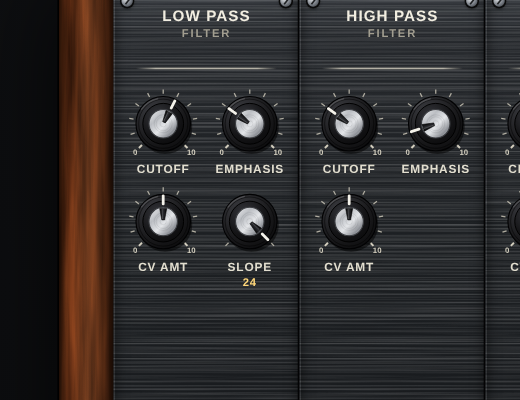
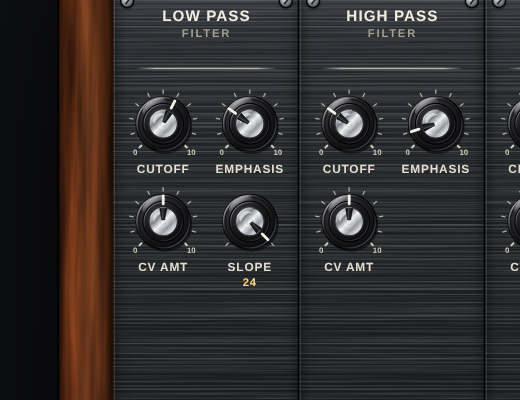
Knob: glossier bakelite, chrome aluminium, rim light (HTML + JUCE)
Claude-Session: https://claude.ai/code/session_01SzB2qFQArXhuppk4rEBZ5Y

diff --git a/ui/index.html b/ui/index.html
@@ -146,7 +146,9 @@ body.dragging #cables .hit,body.dragging #cables .plug{pointer-events:none}
     <radialGradient id="kSkirt" cx=".35" cy=".3" r=".9"><stop offset="0" stop-color="#3d3e43"/><stop offset=".6" stop-color="#18181a"/><stop offset="1" stop-color="#060607"/></radialGradient>
     <radialGradient id="kCap" cx=".38" cy=".3" r=".85"><stop offset="0" stop-color="#7d7e84"/><stop offset=".45" stop-color="#2b2b2e"/><stop offset="1" stop-color="#0a0a0b"/></radialGradient>
     <radialGradient id="kBody" cx=".36" cy=".3" r=".95"><stop offset="0" stop-color="#34353a"/><stop offset=".55" stop-color="#141416"/><stop offset="1" stop-color="#050506"/></radialGradient>
-    <linearGradient id="kAl" x1="0" y1="0" x2="1" y2="1"><stop offset="0" stop-color="#f4f5f6"/><stop offset=".3" stop-color="#b9bcc1"/><stop offset=".55" stop-color="#e3e5e8"/><stop offset=".8" stop-color="#8d9096"/><stop offset="1" stop-color="#c9ccd0"/></linearGradient>
+    <linearGradient id="kAl" x1="0" y1="0" x2="1" y2="1"><stop offset="0" stop-color="#ffffff"/><stop offset=".18" stop-color="#cfd2d7"/><stop offset=".34" stop-color="#7c7f86"/><stop offset=".5" stop-color="#f2f4f6"/><stop offset=".68" stop-color="#9a9da4"/><stop offset=".84" stop-color="#e6e8eb"/><stop offset="1" stop-color="#6e7077"/></linearGradient>
+    <linearGradient id="kGloss" x1="0" y1="0" x2="0" y2="1"><stop offset="0" stop-color="#fff" stop-opacity=".75"/><stop offset=".5" stop-color="#fff" stop-opacity=".12"/><stop offset="1" stop-color="#fff" stop-opacity="0"/></linearGradient>
+    <linearGradient id="kRim" x1="0" y1="0" x2="1" y2="1"><stop offset="0" stop-color="#fff" stop-opacity=".85"/><stop offset=".35" stop-color="#fff" stop-opacity=".05"/><stop offset=".65" stop-color="#fff" stop-opacity="0"/><stop offset="1" stop-color="#9fb4ff" stop-opacity=".45"/></linearGradient>
     <linearGradient id="kWedge" x1="0" y1="0" x2="1" y2="0"><stop offset="0" stop-color="#050506"/><stop offset=".5" stop-color="#2a2b2f"/><stop offset="1" stop-color="#050506"/></linearGradient>
     <linearGradient id="nut" x1="0" y1="0" x2="1" y2="1"><stop offset="0" stop-color="#f3f5f6"/><stop offset=".5" stop-color="#899096"/><stop offset="1" stop-color="#d6dadd"/></linearGradient>
     <radialGradient id="hole" cx=".5" cy=".5" r=".5"><stop offset="0" stop-color="#000"/><stop offset=".72" stop-color="#0a0a0a"/><stop offset="1" stop-color="#40444a"/></radialGradient>
@@ -323,9 +325,13 @@ function knobSVG(k){
     <circle cx="1.3" cy="2.2" r="19.5" fill="#000" opacity=".5"/>
     <circle r="19.5" fill="url(#kSkirt)" stroke="#020203" stroke-width=".8"/>
     <circle r="17.6" fill="none" stroke="#000" stroke-opacity=".55" stroke-width=".6"/>
-    <path d="M-15.5 -10.5 A18.7 18.7 0 0 1 -4 -18" fill="none" stroke="#fff" stroke-opacity=".16" stroke-width="1.1" stroke-linecap="round"/>
+    <circle r="18.9" fill="none" stroke="url(#kRim)" stroke-width="1.1"/>
+    <ellipse cx="-6.5" cy="-12.2" rx="9.5" ry="4.6" transform="rotate(-32 -6.5 -12.2)" fill="url(#kGloss)" opacity=".9"/>
     <circle r="14.6" fill="url(#kBody)" stroke="#000" stroke-width=".7"/>
-    <circle r="10.2" fill="url(#kAl)" stroke="#3b3d41" stroke-width=".8"/>${brush}
+    <circle r="13.7" fill="none" stroke="url(#kRim)" stroke-width=".7" opacity=".8"/>
+    <circle r="10.2" fill="url(#kAl)" stroke="#2c2e32" stroke-width=".9"/>${brush}
+    <path d="M-7.6 -2.2 A8 8 0 0 1 -1.6 -7.8 L1.8 -6.4 A9.6 9.6 0 0 0 -6.4 .4 Z" fill="#fff" opacity=".55"/>
+    <circle r="9.9" fill="none" stroke="#fff" stroke-opacity=".7" stroke-width=".5" stroke-dasharray="14 70" transform="rotate(200)"/>
     <g class="ptr">
       <line x1="0" y1="-12.6" x2="0" y2="-18.4" stroke="#f4f2ea" stroke-width="2" stroke-linecap="round"/>
       <path d="M-2.5 -9.4 L2.5 -9.4 L1 -1.2 L-1 -1.2 Z" fill="url(#kWedge)" stroke="#000" stroke-width=".4"/>

diff --git a/vst3/template/Source/PluginEditor.cpp b/vst3/template/Source/PluginEditor.cpp
@@ -42,17 +42,38 @@ void KnobLookAndFeel::drawRotarySlider (juce::Graphics& g, int x, int y, int w, 
     g.setGradientFill (juce::ColourGradient (juce::Colour (0xff34353a), c.x - 5 * u, c.y - 7 * u,
                                              juce::Colour (0xff050506), c.x + 14 * u, c.y + 14 * u, true));
     g.fillEllipse (disc (14.6f));                                              // upper body
+    {   // specular sheen on the bakelite and a bright rim light on the skirt edge
+        juce::Graphics::ScopedSaveState ss (g);
+        g.addTransform (juce::AffineTransform::rotation (juce::degreesToRadians (-32.0f), c.x - 6.5f * u, c.y - 12.2f * u));
+        g.setGradientFill (juce::ColourGradient (juce::Colours::white.withAlpha (0.65f), c.x - 6.5f * u, c.y - 15.0f * u,
+                                                 juce::Colours::white.withAlpha (0.0f), c.x - 6.5f * u, c.y - 9.0f * u, false));
+        g.fillEllipse (juce::Rectangle<float> (c.x - 16.0f * u, c.y - 16.8f * u, 19.0f * u, 9.2f * u));
+    }
+    g.setGradientFill (juce::ColourGradient (juce::Colours::white.withAlpha (0.8f), c.x - 13 * u, c.y - 13 * u,
+                                             juce::Colour (0x779fb4ff), c.x + 13 * u, c.y + 13 * u, false));
+    g.drawEllipse (disc (18.9f), 1.1f * u);
 
-    g.setGradientFill (juce::ColourGradient (juce::Colour (0xfff4f5f6), c.x - 8 * u, c.y - 8 * u,
-                                             juce::Colour (0xffc9ccd0), c.x + 8 * u, c.y + 8 * u, false));
-    g.fillEllipse (disc (10.2f));                                              // aluminium cap
-    g.setColour (juce::Colour (0xff3b3d41));
-    g.drawEllipse (disc (10.2f), 0.8f * u);
+    // chrome-style aluminium: multi-stop sweep, bright rim, glint
+    juce::ColourGradient al (juce::Colour (0xffffffff), c.x - 9 * u, c.y - 9 * u,
+                             juce::Colour (0xff6e7077), c.x + 9 * u, c.y + 9 * u, false);
+    al.addColour (0.18, juce::Colour (0xffcfd2d7));
+    al.addColour (0.34, juce::Colour (0xff7c7f86));
+    al.addColour (0.50, juce::Colour (0xfff2f4f6));
+    al.addColour (0.68, juce::Colour (0xff9a9da4));
+    al.addColour (0.84, juce::Colour (0xffe6e8eb));
+    g.setGradientFill (al);
+    g.fillEllipse (disc (10.2f));
+    g.setColour (juce::Colour (0xff2c2e32));
+    g.drawEllipse (disc (10.2f), 0.9f * u);
     for (float r : { 2.2f, 3.6f, 5.0f, 6.4f, 7.8f })                           // brushed rings
     {
         g.setColour (juce::Colours::white.withAlpha (0.10f));
         g.drawEllipse (disc (r), 0.45f * u);
     }
+    juce::Path glint;
+    glint.addCentredArc (c.x, c.y, 8.8f * u, 8.8f * u, 0.0f, juce::degreesToRadians (-80.0f), juce::degreesToRadians (-8.0f), true);
+    g.setColour (juce::Colours::white.withAlpha (0.65f));
+    g.strokePath (glint, juce::PathStrokeType (2.6f * u, juce::PathStrokeType::curved, juce::PathStrokeType::rounded));
 
     // rotating parts: indicator line on the skirt and the pointer wedge on the cap
     const auto rot = juce::AffineTransform::rotation (angle).translated (c.x, c.y);

diff --git a/design/UI_AGENTS_MASTER_PROMPT.md b/design/UI_AGENTS_MASTER_PROMPT.md
@@ -1565,17 +1565,38 @@ void KnobLookAndFeel::drawRotarySlider (juce::Graphics& g, int x, int y, int w, 
     g.setGradientFill (juce::ColourGradient (juce::Colour (0xff34353a), c.x - 5 * u, c.y - 7 * u,
                                              juce::Colour (0xff050506), c.x + 14 * u, c.y + 14 * u, true));
     g.fillEllipse (disc (14.6f));                                              // upper body
+    {   // specular sheen on the bakelite and a bright rim light on the skirt edge
+        juce::Graphics::ScopedSaveState ss (g);
+        g.addTransform (juce::AffineTransform::rotation (juce::degreesToRadians (-32.0f), c.x - 6.5f * u, c.y - 12.2f * u));
+        g.setGradientFill (juce::ColourGradient (juce::Colours::white.withAlpha (0.65f), c.x - 6.5f * u, c.y - 15.0f * u,
+                                                 juce::Colours::white.withAlpha (0.0f), c.x - 6.5f * u, c.y - 9.0f * u, false));
+        g.fillEllipse (juce::Rectangle<float> (c.x - 16.0f * u, c.y - 16.8f * u, 19.0f * u, 9.2f * u));
+    }
+    g.setGradientFill (juce::ColourGradient (juce::Colours::white.withAlpha (0.8f), c.x - 13 * u, c.y - 13 * u,
+                                             juce::Colour (0x779fb4ff), c.x + 13 * u, c.y + 13 * u, false));
+    g.drawEllipse (disc (18.9f), 1.1f * u);
 
-    g.setGradientFill (juce::ColourGradient (juce::Colour (0xfff4f5f6), c.x - 8 * u, c.y - 8 * u,
-                                             juce::Colour (0xffc9ccd0), c.x + 8 * u, c.y + 8 * u, false));
-    g.fillEllipse (disc (10.2f));                                              // aluminium cap
-    g.setColour (juce::Colour (0xff3b3d41));
-    g.drawEllipse (disc (10.2f), 0.8f * u);
+    // chrome-style aluminium: multi-stop sweep, bright rim, glint
+    juce::ColourGradient al (juce::Colour (0xffffffff), c.x - 9 * u, c.y - 9 * u,
+                             juce::Colour (0xff6e7077), c.x + 9 * u, c.y + 9 * u, false);
+    al.addColour (0.18, juce::Colour (0xffcfd2d7));
+    al.addColour (0.34, juce::Colour (0xff7c7f86));
+    al.addColour (0.50, juce::Colour (0xfff2f4f6));
+    al.addColour (0.68, juce::Colour (0xff9a9da4));
+    al.addColour (0.84, juce::Colour (0xffe6e8eb));
+    g.setGradientFill (al);
+    g.fillEllipse (disc (10.2f));
+    g.setColour (juce::Colour (0xff2c2e32));
+    g.drawEllipse (disc (10.2f), 0.9f * u);
     for (float r : { 2.2f, 3.6f, 5.0f, 6.4f, 7.8f })                           // brushed rings
     {
         g.setColour (juce::Colours::white.withAlpha (0.10f));
         g.drawEllipse (disc (r), 0.45f * u);
     }
+    juce::Path glint;
+    glint.addCentredArc (c.x, c.y, 8.8f * u, 8.8f * u, 0.0f, juce::degreesToRadians (-80.0f), juce::degreesToRadians (-8.0f), true);
+    g.setColour (juce::Colours::white.withAlpha (0.65f));
+    g.strokePath (glint, juce::PathStrokeType (2.6f * u, juce::PathStrokeType::curved, juce::PathStrokeType::rounded));
 
     // rotating parts: indicator line on the skirt and the pointer wedge on the cap
     const auto rot = juce::AffineTransform::rotation (angle).translated (c.x, c.y);

diff --git a/design/knobs/SKIRTED_KNOB.md b/design/knobs/SKIRTED_KNOB.md
@@ -4,9 +4,9 @@ Reference supplied by Mick: black flared skirt, brushed-aluminium cap, pointer w
 
 Layers, on a 62-unit grid (centre 0,0), bottom to top:
 1. Drop shadow: r19.5 black 50% offset (1.3, 2.2)
-2. Skirt: r19.5, radial gradient #3d3e43 to #060607, stroke #020203; flare edge ring r17.6; soft top-left highlight arc
+2. Skirt: r19.5, radial gradient #3d3e43 to #060607, flare edge ring r17.6, bright rim light (white to blue-tinged), specular gloss ellipse top-left
 3. Upper body: r14.6, radial gradient #34353a to #050506
-4. Aluminium cap: r10.2, linear gradient #f4f5f6 / #b9bcc1 / #e3e5e8 / #8d9096, stroke #3b3d41; 5 brushed rings (r2.2 to 7.8, 10% white or black)
+4. Aluminium cap: r10.2, chrome-style multi-stop sweep (#fff, #cfd2d7, #7c7f86, #f2f4f6, #9a9da4, #e6e8eb, #6e7077), 5 brushed rings, bright glint arc
 5. Rotating: white line (#f4f2ea, width 2) from r12.6 to r18.4 on the skirt; dark wedge from r9.4 down to r1.2 on the cap
 
 Implementations: `ui/index.html` (`knobSVG`), `vst3/template/Source/PluginEditor.cpp` (`KnobLookAndFeel::drawRotarySlider`). Keep them in step. Agents: when a design uses knobs and no other style is specified, use this one.
